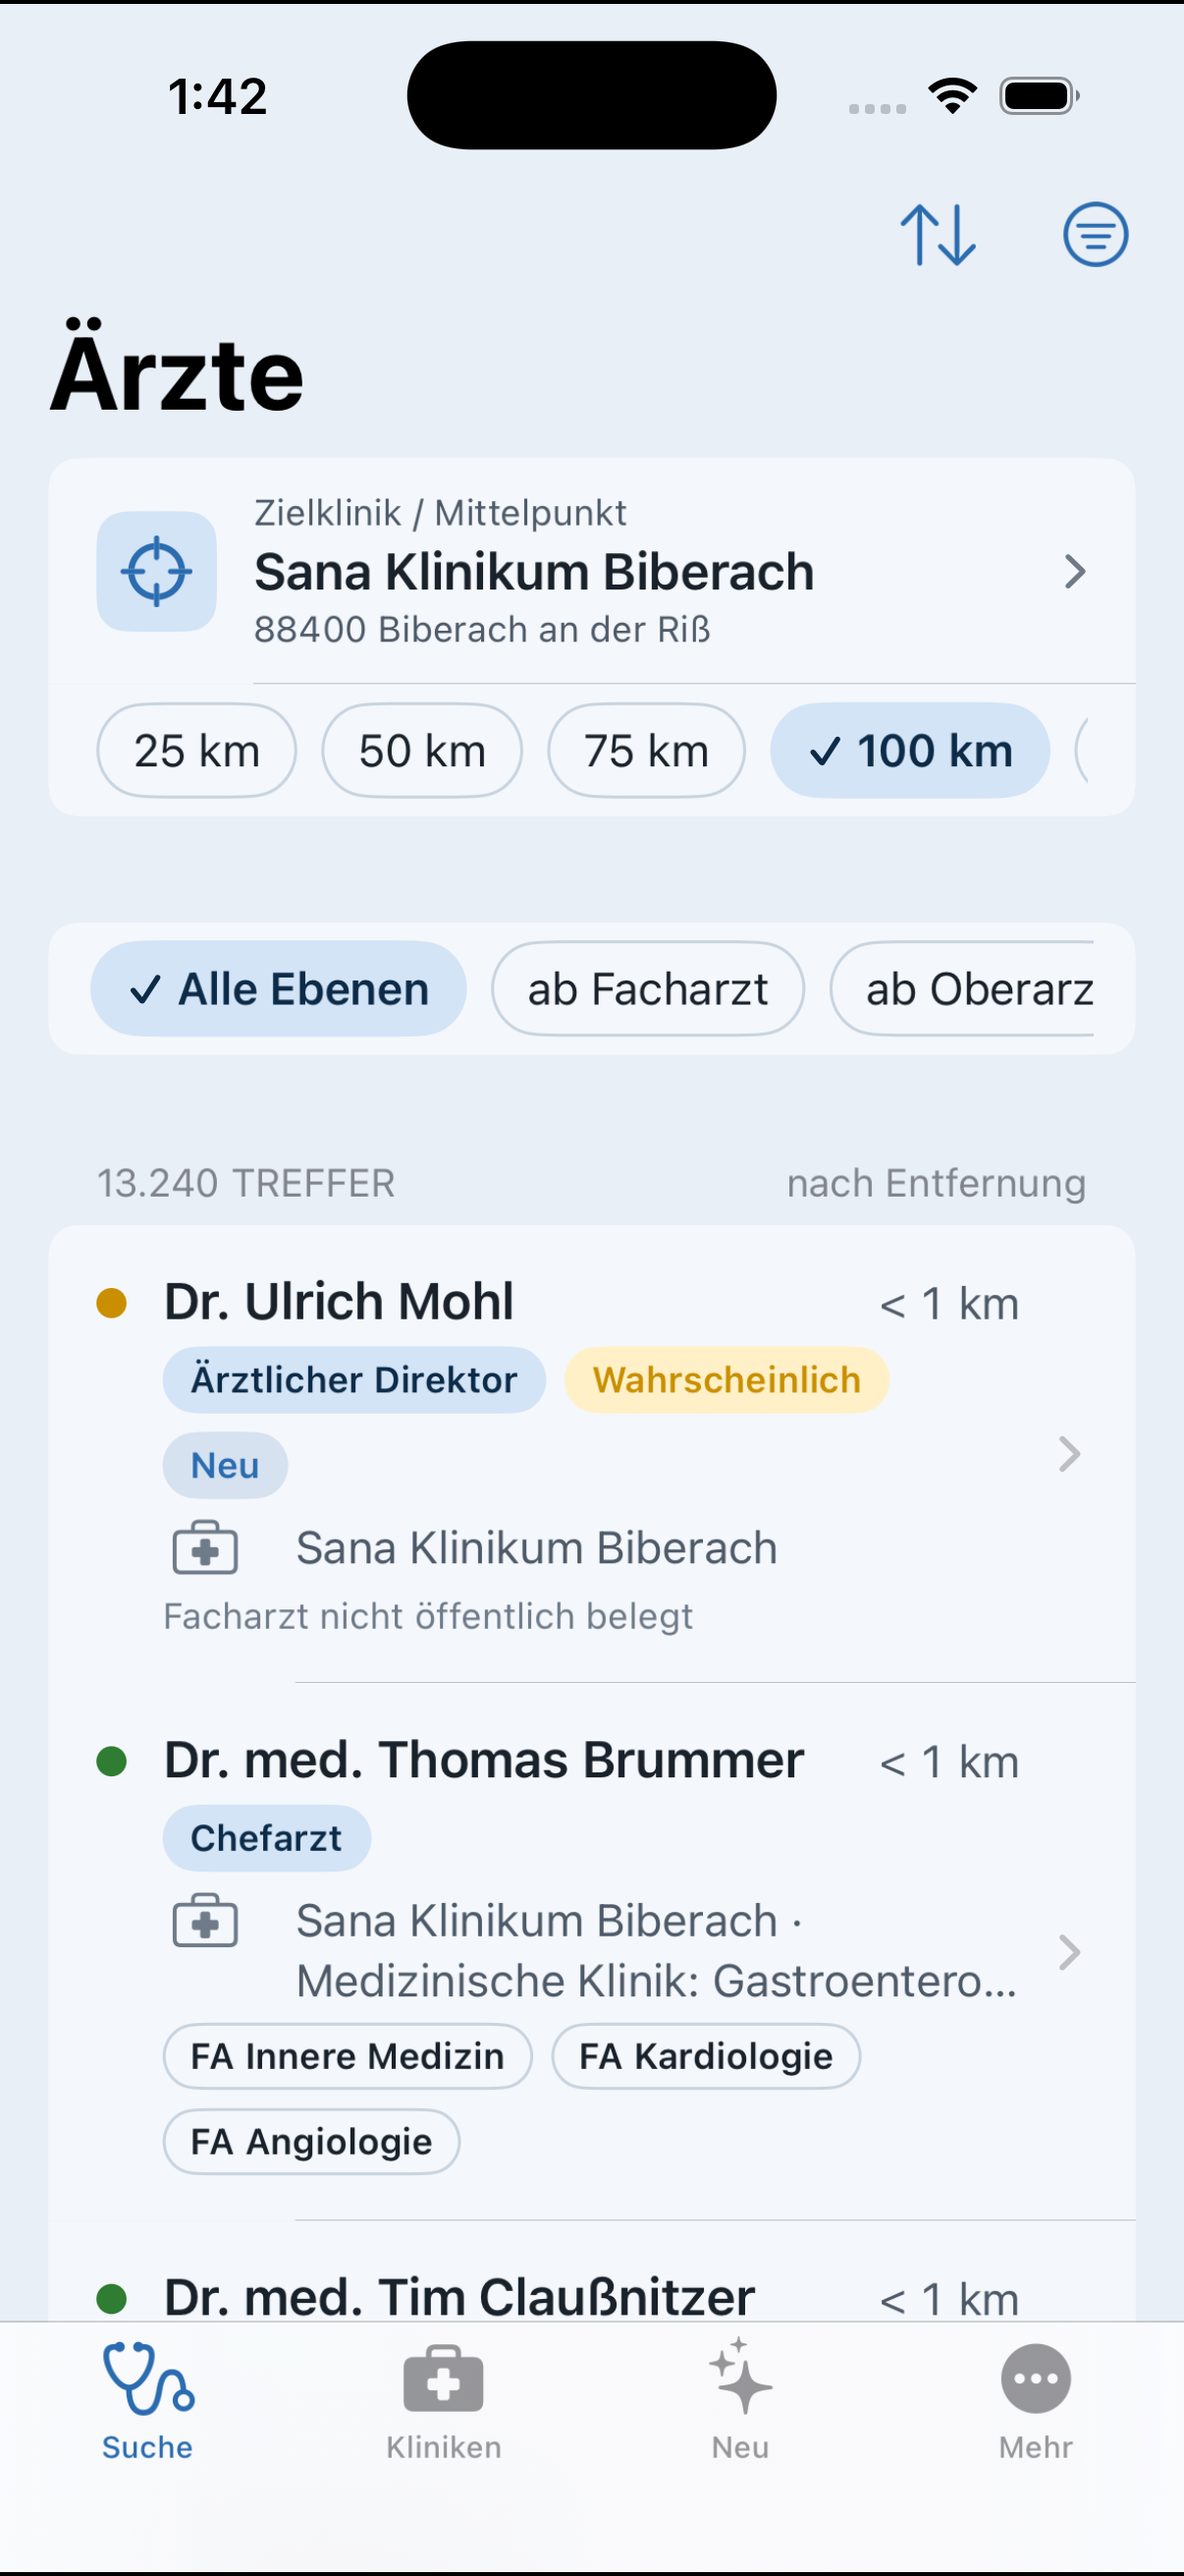
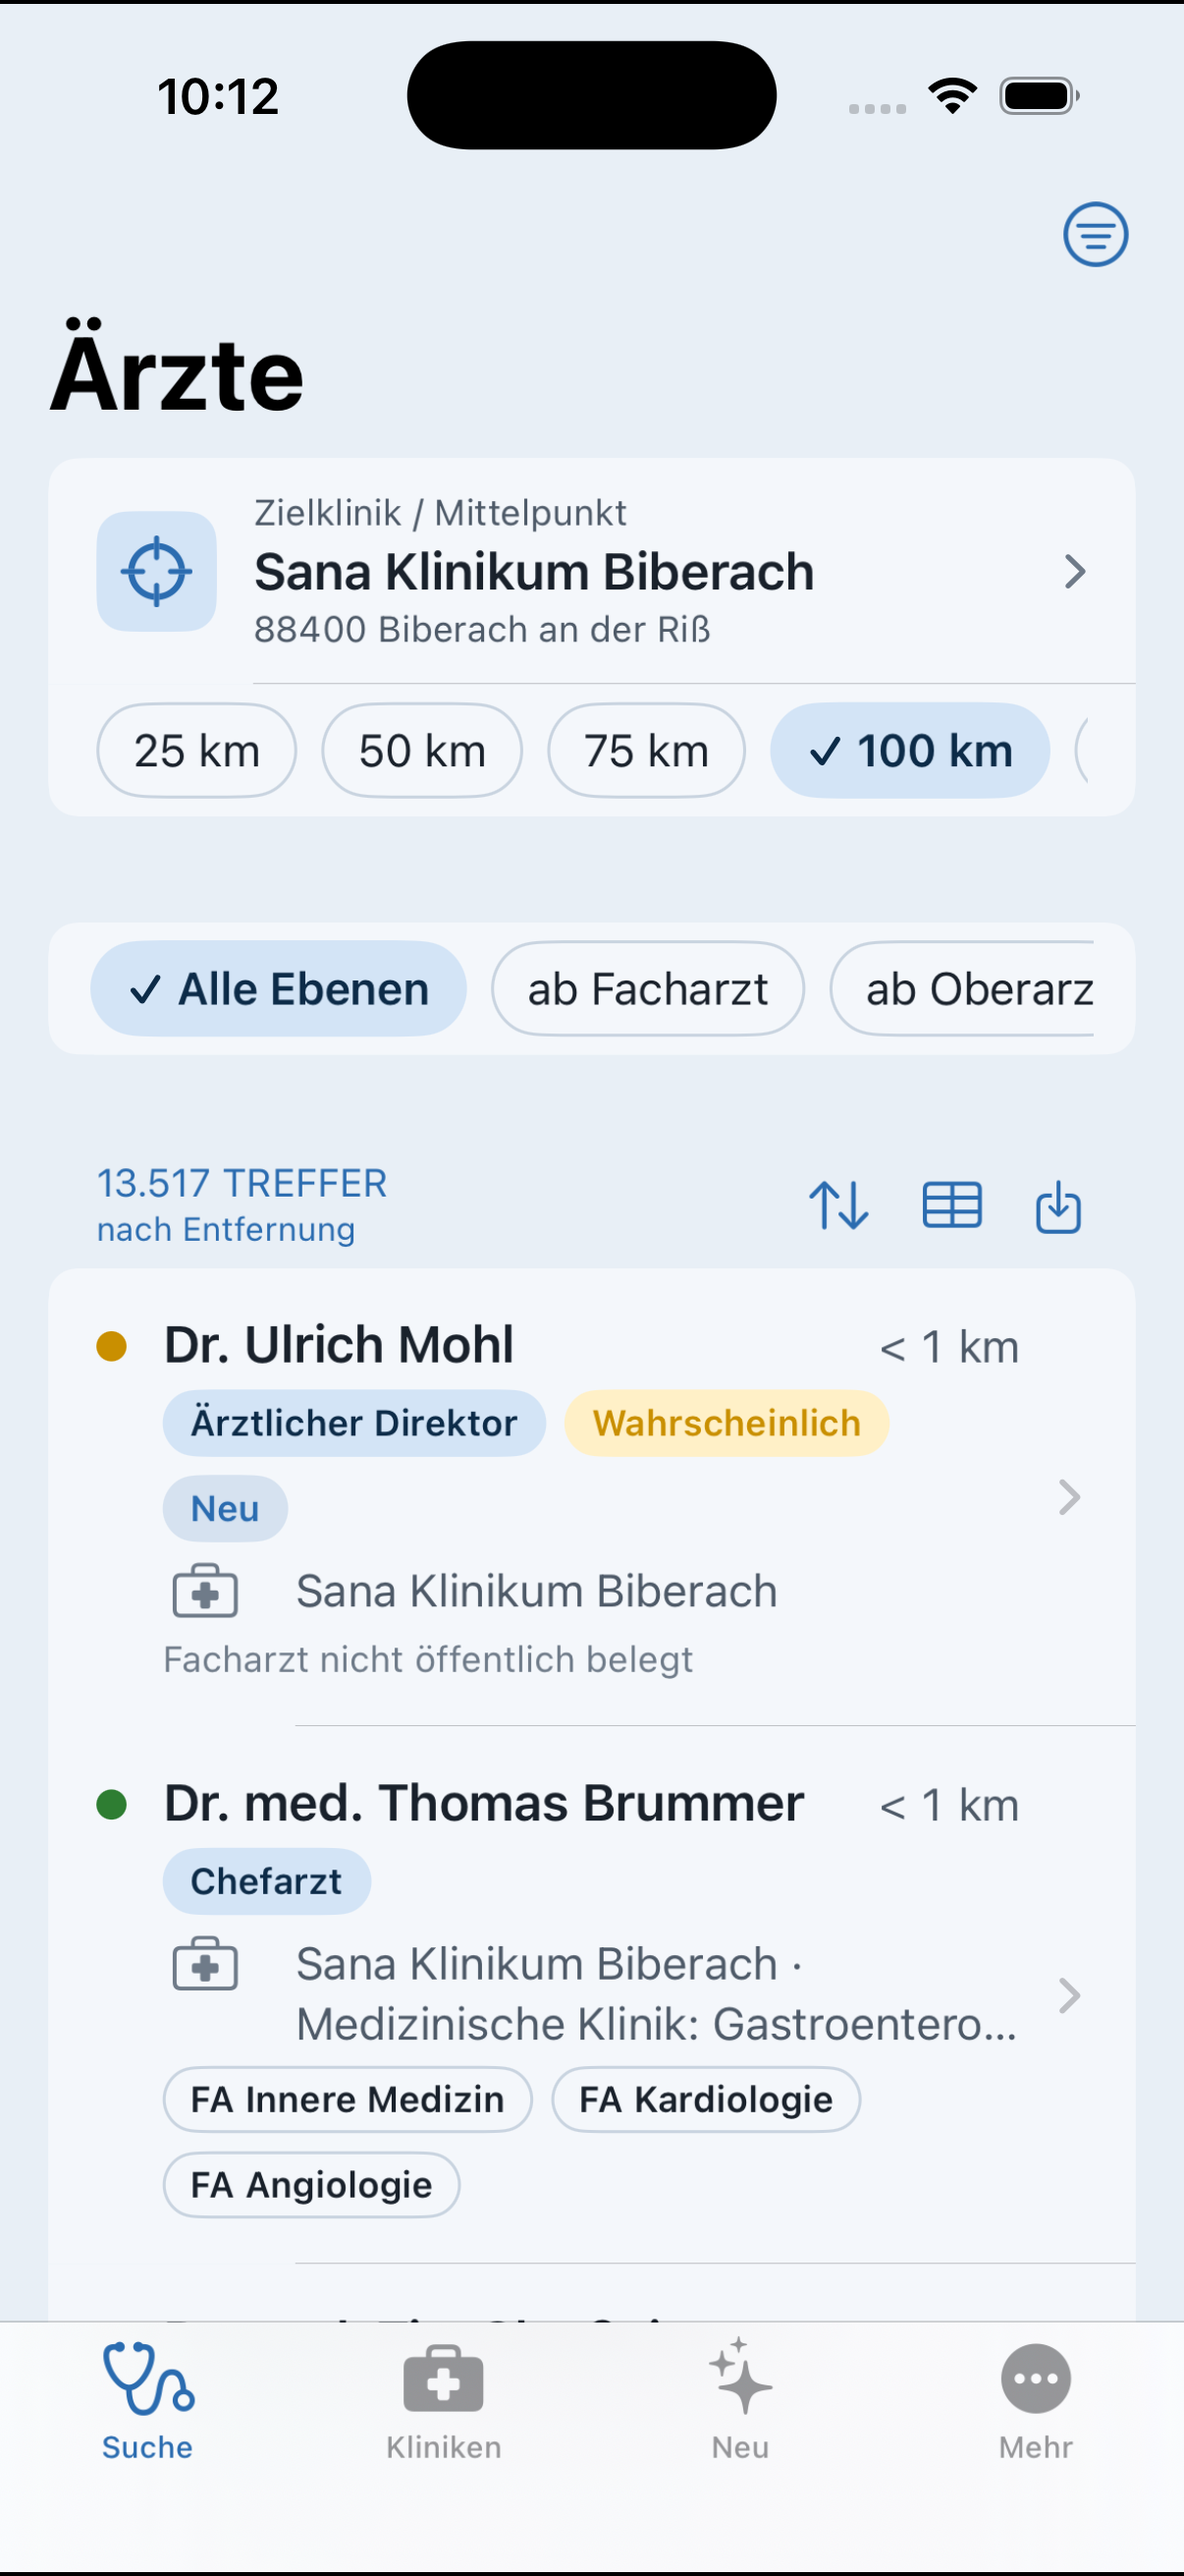
iPhone 1.0.3: SideStore-Quelle und Installationsseite

diff --git a/index.html b/index.html
@@ -8,7 +8,7 @@ img.icon{width:96px;border-radius:22px} .btn{display:block;text-align:center;pad
 @media (prefers-color-scheme:dark){body{background:#111820;color:#e5e7eb} .btn.alt,code{background:#1f2937;color:#e5e7eb}}
 </style></head><body>
 <img class="icon" src="icon.png" alt="">
-<h1>KlinikRadar 1.0.2</h1>
+<h1>KlinikRadar 1.0.3</h1>
 <p>Diese App ist nicht im App Store. Du installierst sie kostenlos mit <b>SideStore</b> (oder AltStore) und deiner eigenen Apple-ID.</p>
 <ol>
 <li>Einmalig SideStore einrichten: <a href="https://docs.sidestore.io/docs/installation/prerequisites">Anleitung</a> (braucht einmal einen PC).</li>
@@ -17,7 +17,7 @@ img.icon{width:96px;border-radius:22px} .btn{display:block;text-align:center;pad
 <a class="btn" href="sidestore://source?url=https://mokokoooo.github.io/klinikradar-app/source.json">Quelle in SideStore hinzufügen</a>
 <a class="btn alt" href="altstore://source?url=https://mokokoooo.github.io/klinikradar-app/source.json">Quelle in AltStore hinzufügen</a>
 <p>Danach in SideStore unter <i>Browse</i> die App installieren. Updates erscheinen dort automatisch.</p>
-<p>Quelle manuell: <code>https://mokokoooo.github.io/klinikradar-app/source.json</code><br>Direkte IPA: <a href="https://github.com/Mokokoooo/klinikradar-app/releases/download/ios-v1.0.2/KlinikRadar.ipa">KlinikRadar.ipa</a></p>
+<p>Quelle manuell: <code>https://mokokoooo.github.io/klinikradar-app/source.json</code><br>Direkte IPA: <a href="https://github.com/Mokokoooo/klinikradar-app/releases/download/ios-v1.0.3/KlinikRadar.ipa">KlinikRadar.ipa</a></p>
 <p><small>Hinweis: Mit einer kostenlosen Apple-ID läuft die Signatur nach 7 Tagen ab. SideStore erneuert sie, wenn du die App regelmäßig öffnest.</small></p>
 <img class="shot" src="screenshot.png" alt="Screenshot">
 <hr style="margin:28px 0;border:none;border-top:1px solid #c9d4e0">
